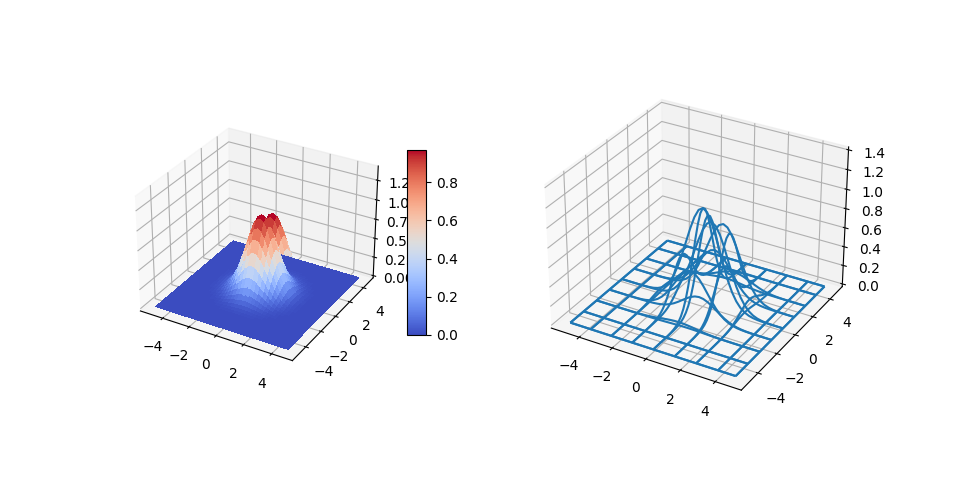
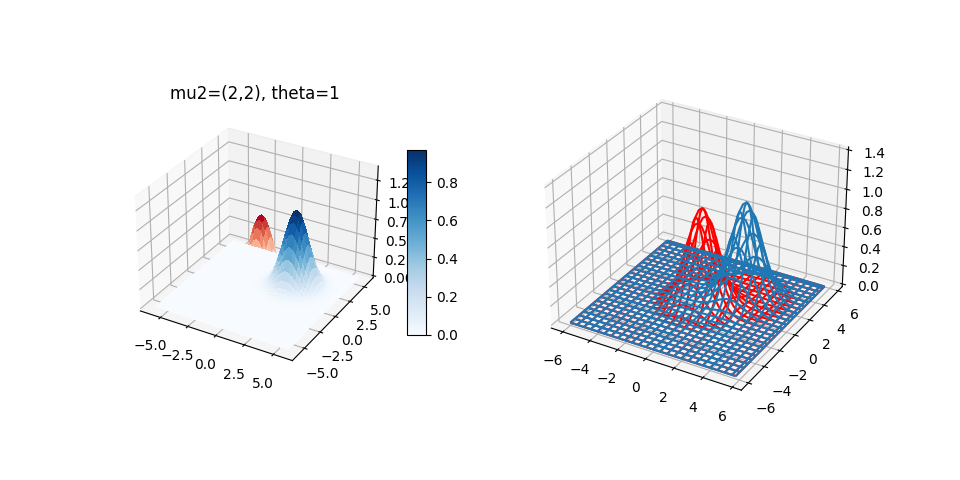
add needle function+fix from cold

diff --git a/simfun.py b/simfun.py
@@ -79,8 +79,8 @@ def show_exp(mu2=[1, 1], x_low=-1, x_up=1, y_low=-1, y_up=1, theta=1, x_nums=100
     fig = plt.figure(figsize=plt.figaspect(0.5))
     ax = fig.add_subplot(1, 2, 1, projection='3d')
 
-    X = np.arange(-5, 5, 0.25)
-    Y = np.arange(-5, 5, 0.25)
+    X = np.arange(x_low, x_up, 0.25)
+    Y = np.arange(y_low, y_up, 0.25)
     X, Y = np.meshgrid(X, Y)
 
     exp1_norm2 = X**2 + Y**2  
@@ -93,15 +93,17 @@ def show_exp(mu2=[1, 1], x_low=-1, x_up=1, y_low=-1, y_up=1, theta=1, x_nums=100
 
     surf1 = ax.plot_surface(X, Y, Z1, rstride=1, cstride=1, cmap=cm.coolwarm,
                            linewidth=0, antialiased=False)
-    surf2 = ax.plot_surface(X, Y, Z2, rstride=1, cstride=1, cmap=cm.coolwarm,
+    surf2 = ax.plot_surface(X, Y, Z2, rstride=1, cstride=1, cmap=cm.Blues,
                        linewidth=0, antialiased=False)
+
+    ax.set_title("mu2=("+str(mu2[0]) +","+str(mu2[1])+"), theta="+str(theta))
 
     ax.set_zlim(0, 1.4)
     fig.colorbar(surf2, shrink=0.5, aspect=10)
 
     ax = fig.add_subplot(1, 2, 2, projection='3d')
-    ax.plot_wireframe(X, Y, Z1, rstride=5, cstride=5)
-    ax.plot_wireframe(X, Y, Z2, rstride=5, cstride=5)
+    ax.plot_wireframe(X, Y, Z1, rstride=2, cstride=2, color="red")
+    ax.plot_wireframe(X, Y, Z2, rstride=2, cstride=2)
     ax.set_zlim(0, 1.4)
     
     plt.show()
@@ -130,10 +132,53 @@ def plot_rkhs_norm(low_diff=0, up_diff=7, theta_lst=[0.25, 0.5, 1, 1.5, 3]):
 
     return 0
 
+def needle_func(input=[1.0], shift=0):
+    "Needle function"
+    x = input[0] - shift
+    if x <= 2:
+        return 0.5*np.exp(x)
+    elif x>2 and x<= 2.5:
+        return -100*(x - 2.25)**2 + 6.25 + 0.5*np.exp(2)
+    else:
+        return np.sin(2*x) + 2*np.log(x) + 0.5*np.exp(2) - 2*np.log(2.5) - np.sin(5)
+
+def show_needle(x_low, x_high, shift=0):
+    "plot needle function above"
+    x_draw = np.linspace(x_low, x_high, 100)
+    y1 = [needle_func([ele]) for ele in x_draw]
+    y2 = [needle_func([ele], shift) for ele in x_draw]
+    diff_y2_y1 = [ele2 - ele1 for ele1, ele2 in zip(y1, y2)]
+
+    fig, ax = plt.subplots(1, 1)
+    ax.set_title("Needle function")
+
+    ax.plot(x_draw, y1, label="task1")
+    ax.plot(x_draw, y2, label="task2")
+    ax.plot(x_draw, diff_y2_y1, label="task2 - task1")
+
+    ax.legend()
+    fig.tight_layout()
+    fig.savefig("./needle.png")
+
+def triple_peak_func(input=[1.0, 2.0], mu1=[1,1], mu2=[2,2], mu3=[3,3], 
+                     theta1=1, theta2=2, theta3=3):
+    "Triple peaks function"
+    x = input[0]
+    y = input[1]
+
+    pass 
+
+def show_triple_peak():
+
+    pass
+
 
 if __name__ == "__main__":
     plot_rkhs_norm()
     show_branin()
-    show_exp(mu2=[0.5, 0.5], theta=1)
+    size = 6
+    show_exp(mu2=[2, 2], theta=1, x_nums=200, y_nums=200, x_low=-size,x_up=size,y_low=-size, y_up=size)
+    show_needle(0, 10, shift=0.3)
 
     print(diff_mu1_mu2(mu1=[0, 0], mu2=[0.707, 0.707], theta=1.414))
+

diff --git a/main_simulation.py b/main_simulation.py
@@ -361,6 +361,7 @@ if __name__ == "__main__":
         f1_rand = os.path.join(out_dir, "simExp_points_task1_rand.tsv")
 
         f2_gp = os.path.join(out_dir, "simExp_points_task2_gp" + "_from_" + task2_start_from + ".tsv")
+        f2_gp_cold = os.path.join(out_dir, "simExp_points_task2_gp" + "_from_cold" + ".tsv")
         f2_stbo = os.path.join(out_dir, "simExp_points_task2_stbo" + "_from_" + task2_start_from + ".tsv")
         f2_bcbo = os.path.join(out_dir, "simExp_points_task2_bcbo" + "_from_" + task2_start_from + ".tsv")
 
@@ -370,7 +371,7 @@ if __name__ == "__main__":
         high_opt2 = 7
 
         main_exp(T1, T2, task2_from_gp, low_opt1=low_opt1, high_opt1=high_opt1, file_1_gp=f1_gp, rand_file_1=f1_rand, 
-                 low_opt2=low_opt2, high_opt2=high_opt2, file_2_gp=f2_gp, file_2_stbo=f2_stbo, file_2_bcbo=f2_bcbo)
+                 low_opt2=low_opt2, high_opt2=high_opt2, file_2_gp=f2_gp, file_2_gp_cold=f2_gp_cold, file_2_stbo=f2_stbo, file_2_bcbo=f2_bcbo)
 
     elif fun_type == "BR":
         f1_gp = os.path.join(out_dir, "simBr_points_task1_gp.tsv")
